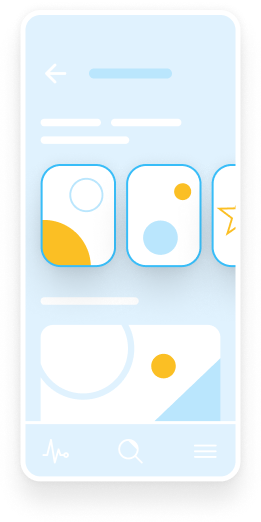
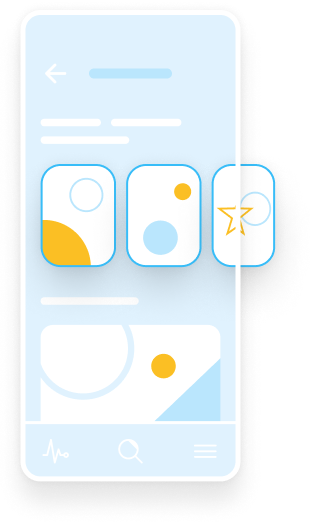
fix: card

diff --git a/src/components/section5/index.tsx b/src/components/section5/index.tsx
@@ -16,7 +16,7 @@ const Section5 = () => {
                 <Button borderColor="border-colorButtonSecondary" backgroundHover="hover:bg-colorButtonSecondary" textColor="text-colorButtonSecondary" textColorHover="hover:text-textColorHoverButton" arrow="src/assets/arrow-right-2.svg" arrowHover="src/assets/arrow-right-3.svg"/>
             </div>
 
-            <div className="flex flex-wrap gap-6">
+            <div className="flex flex-wrap items-center justify-center gap-6">
                 <Card text="Viverra lacus suspendisse elit, adipiscing orci, non turpis etiam sapien. Viverra blandit sem neque pretium. Duis enim semper fermentum consequat aenean libero. Blandit porta leo condimentum dolor, nisi, aliquet ante laoreet." name="Courtney Henry" consumption="6KWh" urlImage="src/assets/user1.png"/>
             </div>
 

diff --git a/src/components/section3/index.tsx b/src/components/section3/index.tsx
@@ -1,6 +1,5 @@
 import Mobile from "../../assets/mobile/Phone.png"
 import Figura4 from "../../assets/mobile/geometric-figures-mobile/Rectangle 16.png"
-import Frame from "../../assets/mobile/Frame 4.png"
 import BoxText from "../box-text"
 
 const Section3 = () => {
@@ -25,10 +24,6 @@ const Section3 = () => {
             
             <div className="flex items-center justify-center">
                 <img src={Mobile} />               
-            </div>
-
-            <div className="absolute bottom-60 right-0 -z-0">
-                <img src={Frame} />
             </div>
         </section>
     )
